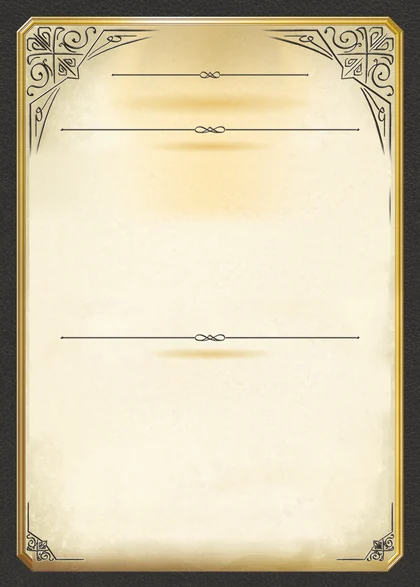
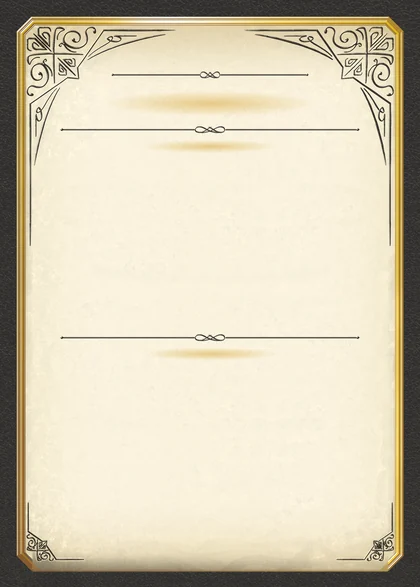
Quest Cards: even, symmetrical parchment shading
The clean background rebuilds the parchment's shading as one even field
(foot darkening mirrored to the head), keeps the original grain and corner
ink, and removes the leftover patches from the medallion and glows.

Claude-Session: https://claude.ai/code/session_016DP5VZCRPedHQjSm4VtbbD

Changed region(s): [[0.0619, 0.0307, 0.9595, 0.4293], [0.0619, 0.9199, 0.9286, 0.9813], [0.8976, 0.2453, 0.9286, 0.3066]]

diff --git a/src/app/ScenarioPreview.tsx b/src/app/ScenarioPreview.tsx
@@ -49,7 +49,7 @@ export default function ScenarioPreview({ experience, scenarioId }: { experience
         <span className="demo-spacer" />
         <button type="button" onClick={restart}><RotateCcw size={16} aria-hidden="true" />Restart</button>
         <a className="demo-play" href="?experience=table">Play a real game</a>
-        <span className="demo-build" title="Demo version">v2 Nov · 1</span>
+        <span className="demo-build" title="Demo version">v2 Nov · 2</span>
         <span className="scenario-status" role="status">{!restartFailed && message}</span>
       </aside>
       {restartFailed && <p className="scenario-restart-error" role="alert">{message}</p>}

diff --git a/design/quest-cards/make-clean-background.py b/design/quest-cards/make-clean-background.py
@@ -1,66 +1,89 @@
 #!/usr/bin/env python3
-"""Make quest-front-background-clean-600dpi.png from the Quest front background:
-removes the compass medallion, the three baked-in dividers and the three gold
-glow bands, so the renderer can place dividers and glows (moved up) itself.
+"""Make quest-front-background-clean-600dpi.png from the Quest front background.
 
-Removal keeps the parchment's own texture: the low-frequency colour is filled
-in from the surroundings (inpainting at 1/8 scale) and the fine grain is
-borrowed from a plain patch of the same parchment.
+Removes the compass medallion, the three baked-in dividers and the gold glow
+bands, so the renderer can draw dividers and glows (moved up) itself.
+
+The parchment is split into its shading (low frequency) and its grain and
+ink (high frequency):
+- shading is rebuilt as one even, symmetrical field: the colour across the
+  card is measured on plain parchment, and the soft darkening at the foot is
+  kept and mirrored to the head, so no light or patch is left where the
+  medallion and glows were;
+- grain and ink (corner ornaments, frame edge) are kept from the original,
+  except under the medallion and dividers, where plain grain is borrowed.
 """
 import sys
 import cv2
 import numpy as np
-from PIL import Image, ImageDraw, ImageFilter
+from PIL import Image, ImageDraw
 
 src, out = sys.argv[1], sys.argv[2]
 im = np.asarray(Image.open(src).convert("RGB")).astype(np.float32)
 H, W = im.shape[:2]
+
+# Parchment area inside the gold frame (corners chamfered).
+x0, x1, y0, y1, ch = 167, 1463, 164, 2086, 46
+pm = Image.new("L", (W, H), 0)
+ImageDraw.Draw(pm).polygon([(x0 + ch, y0), (x1 - ch, y0), (x1, y0 + ch), (x1, y1 - ch), (x1 - ch, y1), (x0 + ch, y1), (x0, y1 - ch), (x0, y0 + ch)], fill=255)
+paper = np.asarray(pm) > 0
+
+def masked_blur(img, mask, sigma):
+    w = mask.astype(np.float32)
+    num = cv2.GaussianBlur(img * w[..., None], (0, 0), sigma)
+    den = cv2.GaussianBlur(w, (0, 0), sigma)[..., None]
+    return num / np.maximum(den, 1e-4)
+
+# Things to remove outright (their grain is replaced too).
 m = Image.new("L", (W, H), 0)
 d = ImageDraw.Draw(m)
-d.ellipse((815 - 205, 372 - 205, 815 + 205, 372 + 205), fill=255)      # medallion
-for y in (677, 919, 1452):                                              # dividers
-    d.rectangle((215, y - 26, 1415, y + 26), fill=255)
-d.ellipse((250, 690, 1380, 910), fill=255)                               # title glow
-d.ellipse((380, 930, 1250, 1050), fill=255)                              # top label glow
-d.ellipse((380, 1462, 1250, 1580), fill=255)                             # bottom label glow
-explicit = np.asarray(m) > 0
-# The glows spread beyond those shapes as a soft yellow cast: flag warm,
-# saturated pixels in the upper card too (the lower vignette is kept).
-# Only round the removed glows (y 640-1600); the top light and the corner
-# ornaments are kept.
-warm = (im[..., 0] - im[..., 2]) > 44
-warm[:640] = False
-warm[1600:] = False
-warm[:, :185] = False
-warm[:, W - 185:] = False
-mask = explicit | warm
-mask = cv2.dilate(mask.astype(np.uint8), np.ones((41, 41), np.uint8)) > 0
-inner = np.zeros((H, W), bool); inner[640:1650, 185:W - 185] = True
-inner[165:640, 470:W - 470] = True      # between the top corner ornaments
-mask &= inner
-inner = np.zeros((H, W), bool); inner[160:2080, 175:W - 175] = True
+d.ellipse((815 - 228, 372 - 228, 815 + 228, 372 + 228), fill=255)       # medallion
+for y in (677, 919, 1452):                                               # dividers
+    d.rectangle((195, y - 34, 1435, y + 34), fill=255)
+for box in ((250, 690, 1380, 910), (360, 925, 1270, 1055), (360, 1455, 1270, 1585), (540, 215, 1090, 640)):
+    d.ellipse(box, fill=255)                                             # glows and top light
+remove = cv2.dilate(np.asarray(m), np.ones((9, 9), np.uint8)) > 0
+# Ink (ornament lines) must not darken the shading estimate.
+lum = im @ np.array([0.299, 0.587, 0.114], np.float32)
+ink = cv2.dilate((lum < 170).astype(np.uint8), np.ones((7, 7), np.uint8)) > 0
 
-# Low frequency: normalised blur of the clean parchment only.
-clean_zone = np.zeros((H, W), bool); clean_zone[160:2080, 250:W - 250] = True
-wgt = (~mask & clean_zone).astype(np.float32)
-num = cv2.GaussianBlur(im * wgt[..., None], (0, 0), 90)
-den = cv2.GaussianBlur(wgt, (0, 0), 90)[..., None]
-low = num / np.maximum(den, 1e-3)
+# Shading and grain of the original, measured only on parchment.
+sig = 22
+low = masked_blur(im, paper & ~remove & ~ink, sig)
+# Grain and ink as a brightness ratio, so lines stay a neutral dark and do
+# not pick up a colour cast from the shading they used to sit on.
+L = lambda x: x @ np.array([0.299, 0.587, 0.114], np.float32)
+hf = np.clip(L(im) / np.maximum(L(low), 1), 0, 1.6)
 
-# High frequency: the grain of a plain patch, mirrored to cover the card.
-patch = im[1090:1400, 300:1330]
-hf = patch - cv2.GaussianBlur(patch, (0, 0), 14)
-reps_y, reps_x = H // hf.shape[0] + 2, W // hf.shape[1] + 2
-row = np.concatenate([hf if i % 2 == 0 else hf[:, ::-1] for i in range(reps_x)], axis=1)
+# Plain-grain substitute for the removed areas.
+patch = im[1080:1420, 300:1330]
+phf = L(patch) / np.maximum(L(cv2.GaussianBlur(patch, (0, 0), sig)), 1)
+reps_y, reps_x = H // phf.shape[0] + 2, W // phf.shape[1] + 2
+row = np.concatenate([phf if i % 2 == 0 else phf[:, ::-1] for i in range(reps_x)], axis=1)
 tile = np.concatenate([row if j % 2 == 0 else row[::-1] for j in range(reps_y)], axis=0)[:H, :W]
+ra = cv2.GaussianBlur(remove.astype(np.float32), (0, 0), 12)
+hf = hf * (1 - ra) + tile * ra
 
-fill = low + tile
-# Full replacement inside the mask, feathered only outwards.
-grown = cv2.dilate(mask.astype(np.uint8), np.ones((61, 61), np.uint8)).astype(np.float32)
-alpha = np.maximum(cv2.GaussianBlur(grown, (0, 0), 22), mask.astype(np.float32))
-alpha = np.clip(alpha * 1.4, 0, 1)
-alpha[~inner] = 0
-alpha = alpha[..., None]
-outim = im * (1 - alpha) + fill * alpha
+# New shading: colour across the card from plain rows, made symmetrical ...
+band = masked_blur(im, paper & ~remove & ~ink, 60)
+col = band[1100:1400].mean(axis=0)                    # (W, 3)
+col = (col + col[::-1]) / 2
+# ... and the darkening at the foot, mirrored to the head.
+mid = band[1100:1400, 400:1230].mean(axis=(0, 1))
+foot = band[:, 400:1230].mean(axis=1) / mid           # (H, 3) ratio per row
+ratio = np.ones((H, 3), np.float32)
+start = 1750
+ratio[start:] = np.minimum(foot[start:], 1.0)
+for y in range(start, y1 + 1):
+    t = y1 - y                                       # distance from the foot edge
+    if y0 + t < H:
+        ratio[y0 + t] = ratio[y]
+ratio[:y0] = ratio[y0]
+ratio = cv2.GaussianBlur(ratio[:, None, :], (0, 0), sigmaX=0.1, sigmaY=10)[:, 0, :]
+shade = col[None, :, :] * ratio[:, None, :]
+
+new = shade * hf[..., None]
+pa = cv2.GaussianBlur(paper.astype(np.float32), (0, 0), 1.2)[..., None]
+outim = im * (1 - pa) + new * pa
 Image.fromarray(np.clip(outim, 0, 255).astype(np.uint8)).save(out, dpi=(600, 600))
 print("wrote", out)
